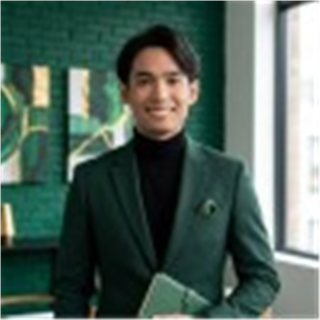
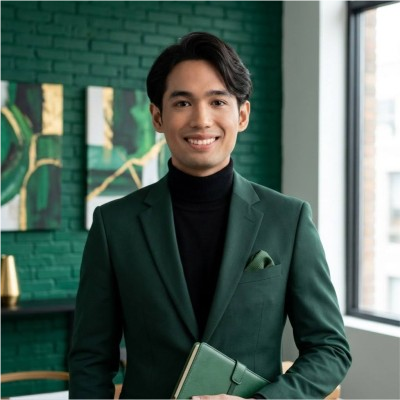
site: every section shares one container edge
The hero and About sat in a narrower inner column than the demo below them, so
the top of the page hugged the left while the demo spanned full width. Mark read
that as off-centre, correctly - it looks like a mistake rather than a measure.

Container narrowed to 4xl and the inner max-widths removed, so every section
starts and ends on the same line and full-width prose still lands at a readable
measure.

Also replaces the avatar with the full-resolution LinkedIn portrait (background
intact) and the favicon with a transparent head-and-shoulders cut-out, flood
filled from the borders so teeth and shirt are not punched through. The
template's own favicon.ico was deleted; it was silently winning over icon.png.

diff --git a/src/app/page.tsx b/src/app/page.tsx
@@ -16,12 +16,14 @@ const BLUR_FADE_DELAY = 0.04;
 export default function Page() {
   return (
     <main className="min-h-dvh flex flex-col gap-14 relative">
-      {/* Prose sections keep their own comfortable measure inside the wider
-          container, rather than stretching text to 80rem where it becomes
-          unreadable. The container edge stays constant; only the text column
-          is narrow. */}
+      {/* Every section spans the SAME container width. An earlier version gave
+          the hero and prose a narrower inner column, which left the top of the
+          page hugging the left edge while the demo below spanned the full
+          width - it read as misaligned rather than as a deliberate measure.
+          The container is 4xl so full-width prose still lands at a readable
+          line length. */}
       <section id="hero">
-        <div className="w-full max-w-3xl space-y-8">
+        <div className="w-full space-y-8">
           <div className="gap-2 gap-y-6 flex flex-col md:flex-row justify-between">
             <div className="gap-2 flex flex-col order-2 md:order-1">
               <BlurFadeText
@@ -51,7 +53,7 @@ export default function Page() {
             <h2 className="text-xl font-bold">About</h2>
           </BlurFade>
           <BlurFade delay={BLUR_FADE_DELAY * 4}>
-            <div className="prose max-w-3xl text-pretty font-sans leading-relaxed text-muted-foreground dark:prose-invert">
+            <div className="prose max-w-none text-pretty font-sans leading-relaxed text-muted-foreground dark:prose-invert">
               <Markdown>
                 {DATA.summary}
               </Markdown>

diff --git a/src/app/layout.tsx b/src/app/layout.tsx
@@ -88,7 +88,7 @@ export default function RootLayout({
                 randomly spanned the viewport while everything else sat in a
                 thin ribbon - which read as a bug, not a layout. Everything now
                 shares this edge; prose constrains its own line length inside. */}
-            <div className="relative z-10 mx-auto w-full max-w-5xl px-6 py-12 pb-24 sm:py-24">
+            <div className="relative z-10 mx-auto w-full max-w-4xl px-6 py-12 pb-24 sm:py-24">
               {children}
             </div>
             <Navbar />
